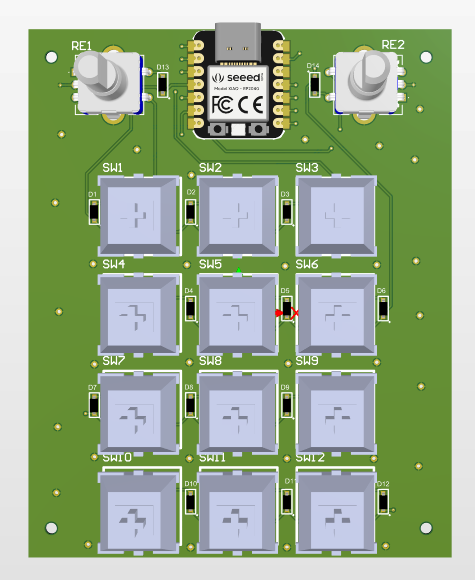
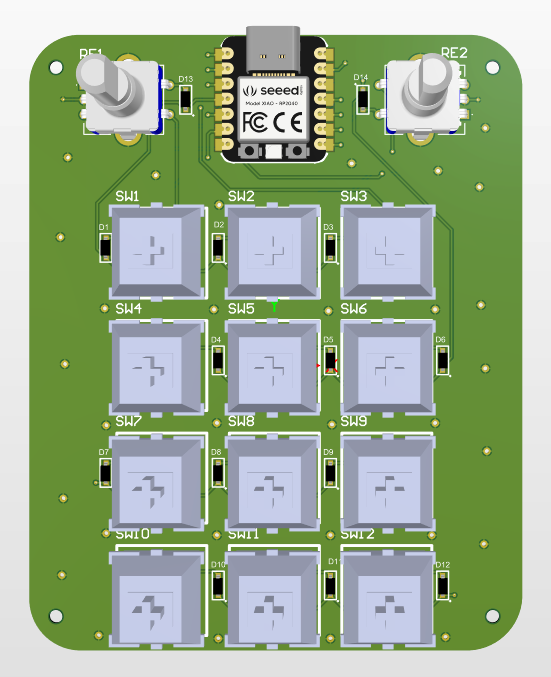
Read me Edit

diff --git a/README.md b/README.md
@@ -6,7 +6,7 @@ While the first version relied on a massive Raspberry Pi Pico and served as my p
 
 ## Images
 
-![PCB Top View](image-1.png)
+![PCB Top View](image.png)
 
 ## ⚙ Hardware & Features
 
